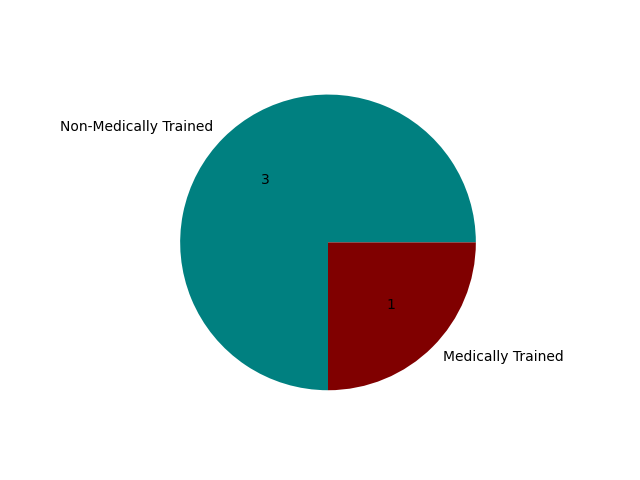
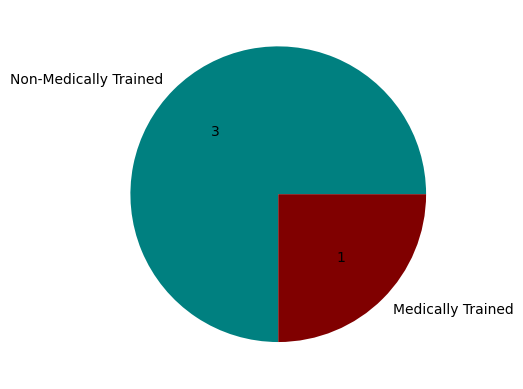
stupid summaary

Changed region(s): [[0.0, 0.0925, 0.979, 0.8946], [0.3977, 0.3085, 0.4283, 0.3702], [0.6424, 0.6478, 0.673, 0.6787]]

diff --git a/admin/summary.py b/admin/summary.py
@@ -4,6 +4,7 @@ import pandas as pd
 from fpdf import FPDF, HTMLMixin
 import matplotlib.pyplot as plt
 import numpy as np
+import PIL
 
 
 
@@ -31,9 +32,10 @@ def generate_pie(camp):
     mycolors = ["#008080", "#800000"]
     plt.pie(y, labels = mylabels, colors = mycolors, autopct=absolute_value)
 
-
-    plt.savefig(f'summaries/{camp}.png')
+    
+    plt.savefig(f'summaries/{camp}.png', bbox_inches='tight')
     plt.close()
+    
 
 
 
@@ -42,12 +44,12 @@ def addlabels(x,y):
     for i in range(len(x)):
         plt.text(i, y[i], y[i], ha = 'center')
 
-def generate_bar():
+def generate_bar(plan):
 
-    selected_plan = 'Plan 2 camps'
+    
     df = pd.read_csv('data/camps.csv')
-    camp_name = df.loc[df['emergency_plan_name'] == selected_plan]
-    x = camp_name['camp_name'].to_list()
+    camp_name = df.loc[df['emergency_plan_name'] == plan]
+    camps = camp_name['camp_name'].to_list()
 
     df_ref = pd.read_csv('data/refugees.csv')
 
@@ -55,7 +57,7 @@ def generate_bar():
     on_site = []
     off_site = []
 
-    for camp in x:
+    for camp in camps:
         labels.append(camp)
         y = df_ref.loc[df_ref['camp_name'] == camp]
 
@@ -81,7 +83,8 @@ def generate_bar():
     ax.legend()
 
     addlabels(labels, total_num)
-    # plt.show()
+    plt.savefig(f'summaries/{plan}.png')
+    plt.close()
 
 
 
@@ -114,19 +117,29 @@ def makeSummary(x):
   <section>
     <p><b>Number of Camps: 5</b></p>
     <p><b>Number of Refugees: 5</b></p>
-    <p><b>Number of Volunteers: 5</b></p> 
+    <p><b>Number of Volunteers: 5</b></p>
     <br>
+    </section>
     """)
     camps = ['Empty Camp', 'Camp with Miron']
     for camp in camps:
         generate_pie(camp)
         pdf.write_html(f"""
+    <br>
+    <br>
+    <br>
+    <br>
+    <br>
+    <br>
+    <section>
     <h2><b>{camp}:</b></h2> 
     <font size ="11"><p><b>Number of Volunteers:</b> 5</p></font>
     <font size="10"><p><b>            Of which medics:</b> 5</p> </font>
     <font size ="11"><p><b>Number of Refugees:</b> 5</p></font>
     <font size ="11"><p><b>Number of Beds:</b> 5</p></font>
     <font size ="11"><p><b>Number of Food Rations:</b> 5</p></font>
+    <center><img src="summaries/{camp}.png" width='200'><center>
+    <br>
     </section>""")
 
 
